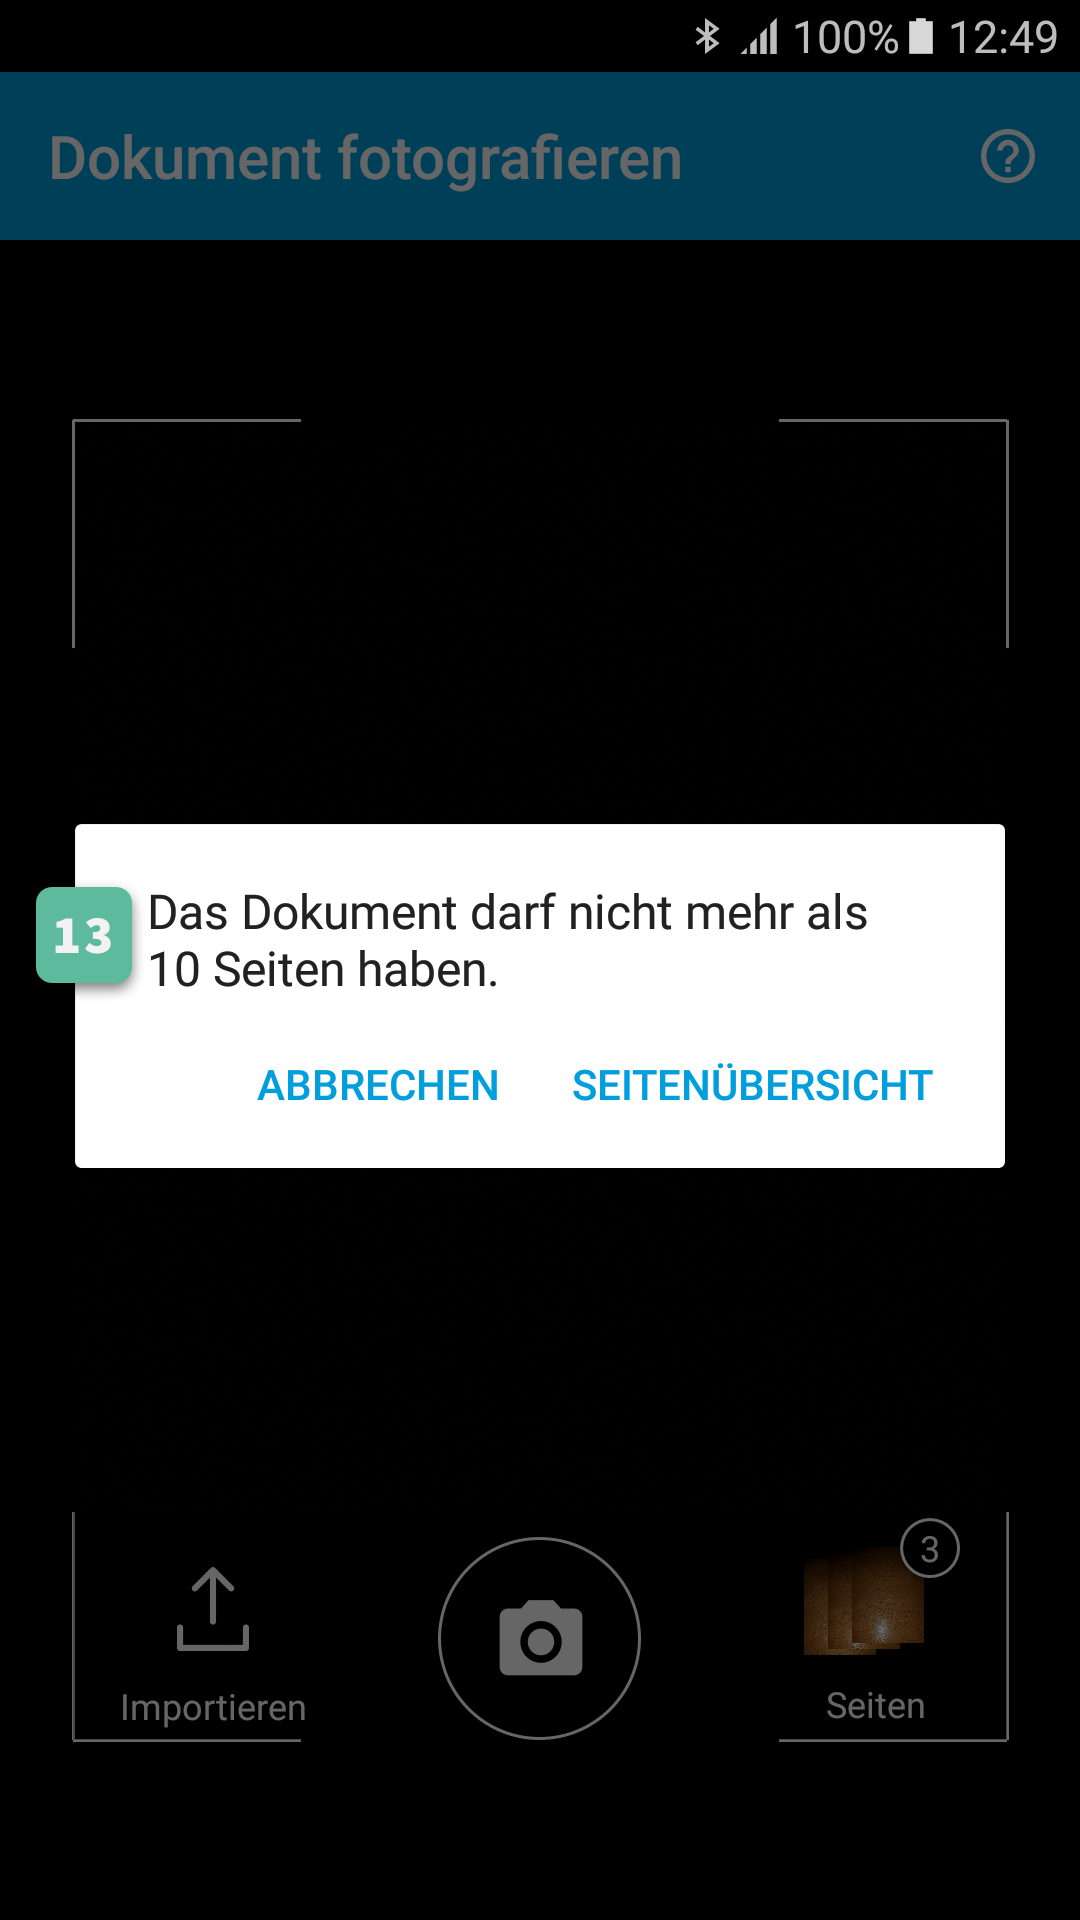
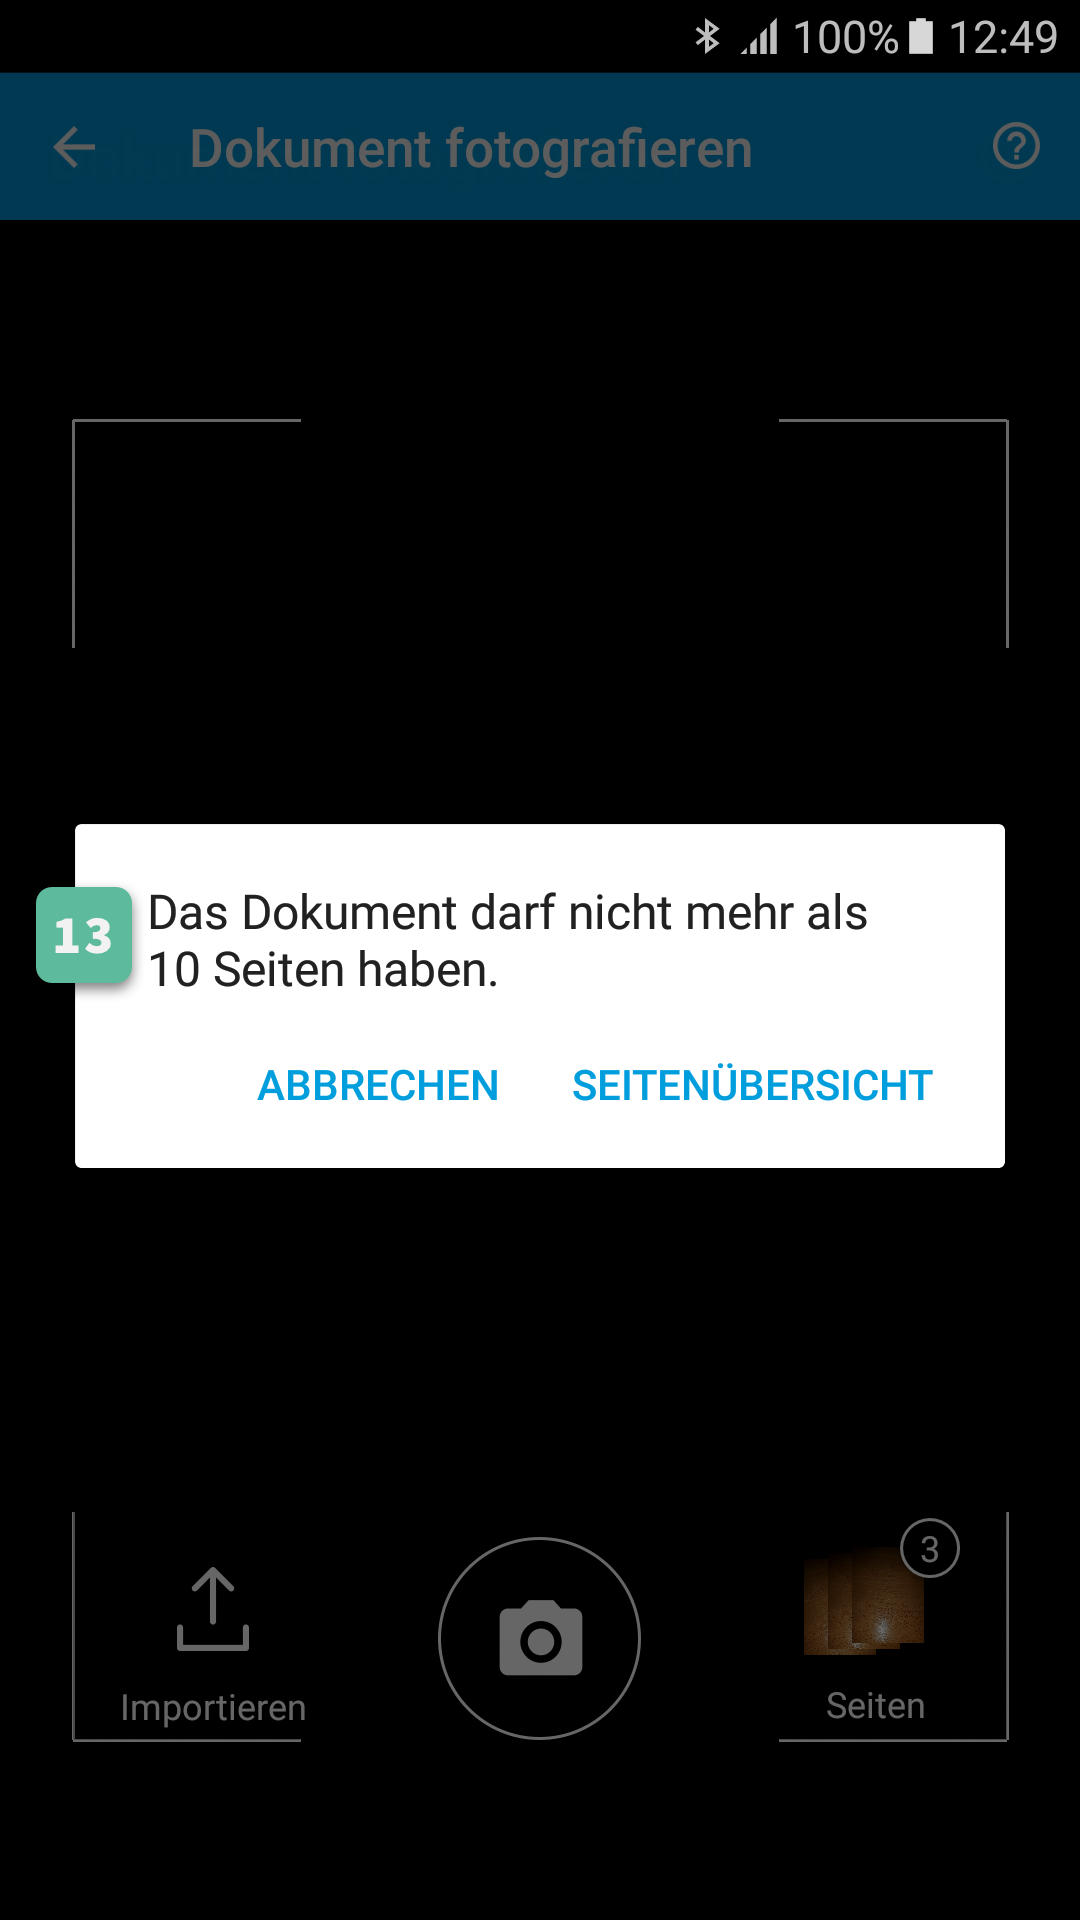
Updated the customization guide with the back buttons

Changed region(s): [[0.0, 0.0625, 1.0, 0.125]]

diff --git a/ginivision/src/doc/source/customization-guide.rst b/ginivision/src/doc/source/customization-guide.rst
@@ -15,7 +15,7 @@ Onboarding Screen
     <img src="_static/customization/Onboarding.png" usemap="#onboarding-map" width="324" height="576">
 
     <map id="onboarding-map" name="onboarding-map">
-        <area shape="rect" alt="" title="Action Bar" coords="89,24,121,57" href="customization-guide.html#onboarding-1" target="" />
+        <area shape="rect" alt="" title="Action Bar" coords="132,24,164,57" href="customization-guide.html#onboarding-1" target="" />
         <area shape="rect" alt="" title="Next Button" coords="282,462,311,494" href="customization-guide.html#onboarding-2" target="" />
         <area shape="rect" alt="" title="Page Indicators" coords="105,485,134,515" href="customization-guide.html#onboarding-3" target="" />
         <area shape="rect" alt="" title="Onboarding Message" coords="15,326,44,356" href="customization-guide.html#onboarding-4" target="" />
@@ -37,6 +37,10 @@ All Action Bar customizations except the title are global to all Activities.
 - **Title Color**
 
   Via the color resource named ``gv_action_bar_title``.
+
+- **Back Button Icon**
+
+  Via images for mdpi, hdpi, xhdpi, xxhdpi, xxxhdpi named ``gv_action_bar_back``.
 
 - **Background Color**
 
@@ -250,7 +254,7 @@ Camera Screen
     <img src="_static/customization/Camera.png" usemap="#camera-map-1" width="324" height="576">
 
     <map id="camera-map-1" name="camera-map-1">
-        <area shape="rect" alt="" title="Action Bar" coords="189,26,217,56" href="customization-guide.html#camera-1" target="" />
+        <area shape="rect" alt="" title="Action Bar" coords="229,26,257,56" href="customization-guide.html#camera-1" target="" />
         <area shape="rect" alt="" title="Document Corner Guides" coords="32,103,60,132" href="customization-guide.html#camera-2" target="" />
         <area shape="rect" alt="" title="Camera Trigger Button" coords="175,431,201,460" href="customization-guide.html#camera-3" target="" />
         <area shape="rect" alt="" title="Tap to Focus Indicator" coords="96,215,127,244" href="customization-guide.html#camera-4" target="" />
@@ -313,6 +317,10 @@ All Action Bar customizations except the title are global to all Activities.
 - **Title Color**
 
   Via the color resource named ``gv_action_bar_title``.
+
+- **Back Button Icon**
+
+  Via images for mdpi, hdpi, xhdpi, xxhdpi, xxxhdpi named ``gv_action_bar_back``.
 
 - **Background Color**
 
@@ -1291,7 +1299,7 @@ Help Screen
     <img src="_static/customization/Help Screen.png" usemap="#help-screen-map" width="324" height="576">
 
     <map id="help-screen-map" name="help-screen-map">
-        <area shape="rect" alt="" title="Action Bar" coords="81,23,119,56" href="customization-guide.html#help-screen-1" target="" />
+        <area shape="rect" alt="" title="Action Bar" coords="97,23,135,56" href="customization-guide.html#help-screen-1" target="" />
         <area shape="rect" alt="" title="Background" coords="136,346,168,379" href="customization-guide.html#help-screen-2" target="" />
         <area shape="rect" alt="" title="Help List Item" coords="217,74,246,104" href="customization-guide.html#help-screen-3" target="" />
         <!-- Created by Online Image Map Editor (http://www.maschek.hu/imagemap/index) -->
@@ -1311,6 +1319,10 @@ All Action Bar customizations except the title are global to all Activities.
 - **Title Color**
 
   Via the color resource named ``gv_action_bar_title``.
+
+- **Back Button Icon**
+
+  Via images for mdpi, hdpi, xhdpi, xxhdpi, xxxhdpi named ``gv_action_bar_back``.
 
 - **Background Color**
 
@@ -1365,7 +1377,7 @@ Photo Tips Screen
     <img src="_static/customization/Photo Tips Screen.png" usemap="#photo-tips-map" width="324" height="576">
 
     <map id="photo-tips-map" name="photo-tips-map">
-        <area shape="rect" alt="" title="Action Bar" coords="136,25,166,56" href="customization-guide.html#photo-tips-1" target="" />
+        <area shape="rect" alt="" title="Action Bar" coords="173,25,203,56" href="customization-guide.html#photo-tips-1" target="" />
         <area shape="rect" alt="" title="Background" coords="275,251,306,281" href="customization-guide.html#photo-tips-2" target="" />
         <area shape="rect" alt="" title="Header" coords="277,71,308,103" href="customization-guide.html#photo-tips-3" target="" />
         <area shape="rect" alt="" title="Tip" coords="227,138,257,171" href="customization-guide.html#photo-tips-4" target="" />
@@ -1397,6 +1409,10 @@ All Action Bar customizations except the title are global to all Activities.
 - **Title Color**
 
   Via the color resource named ``gv_action_bar_title``.
+
+- **Back Button Icon**
+
+  Via images for mdpi, hdpi, xhdpi, xxhdpi, xxxhdpi named ``gv_action_bar_back``.
 
 - **Background Color**
 
@@ -1535,7 +1551,7 @@ Supported Formats Screen
     <img src="_static/customization/Supported Formats Screen.png" usemap="#supported-formats-map" width="324" height="576">
 
     <map id="supported-formats-map" name="supported-formats-map">
-        <area shape="rect" alt="" title="Action Bar" coords="171,24,202,54" href="customization-guide.html#supported-formats-1" target="" />
+        <area shape="rect" alt="" title="Action Bar" coords="215,24,246,54" href="customization-guide.html#supported-formats-1" target="" />
         <area shape="rect" alt="" title="Background" coords="144,483,178,518" href="customization-guide.html#supported-formats-2" target="" />
         <area shape="rect" alt="" title="Header" coords="239,74,269,106" href="customization-guide.html#supported-formats-3" target="" />
         <area shape="rect" alt="" title="Format Info List Item" coords="278,128,307,160" href="customization-guide.html#supported-formats-4" target="" />
@@ -1558,6 +1574,10 @@ All Action Bar customizations except the title are global to all Activities.
 - **Title Color**
 
   Via the color resource named ``gv_action_bar_title``.
+
+- **Back Button Icon**
+
+  Via images for mdpi, hdpi, xhdpi, xxhdpi, xxxhdpi named ``gv_action_bar_back``.
 
 - **Background Color**
 
@@ -1660,7 +1680,7 @@ File Import Screen
     <img src="_static/customization/File Import Screen.png" usemap="#file-import-map" width="324" height="576">
 
     <map id="file-import-map" name="file-import-map">
-        <area shape="rect" alt="" title="Action Bar" coords="283,22,312,54" href="customization-guide.html#file-import-1" target="" />
+        <area shape="rect" alt="" title="Action Bar" coords="288,22,317,54" href="customization-guide.html#file-import-1" target="" />
         <area shape="rect" alt="" title="Background" coords="283,157,313,190" href="customization-guide.html#file-import-2" target="" />
         <area shape="rect" alt="" title="Header" coords="284,82,315,117" href="customization-guide.html#file-import-3" target="" />
         <area shape="rect" alt="" title="Separator Line" coords="147,143,181,178" href="customization-guide.html#file-import-4" target="" />
@@ -1687,6 +1707,10 @@ All Action Bar customizations except the title are global to all Activities.
 - **Title Color**
 
   Via the color resource named ``gv_action_bar_title``.
+
+- **Back Button Icon**
+
+  Via images for mdpi, hdpi, xhdpi, xxhdpi, xxxhdpi named ``gv_action_bar_back``.
 
 - **Background Color**
 
